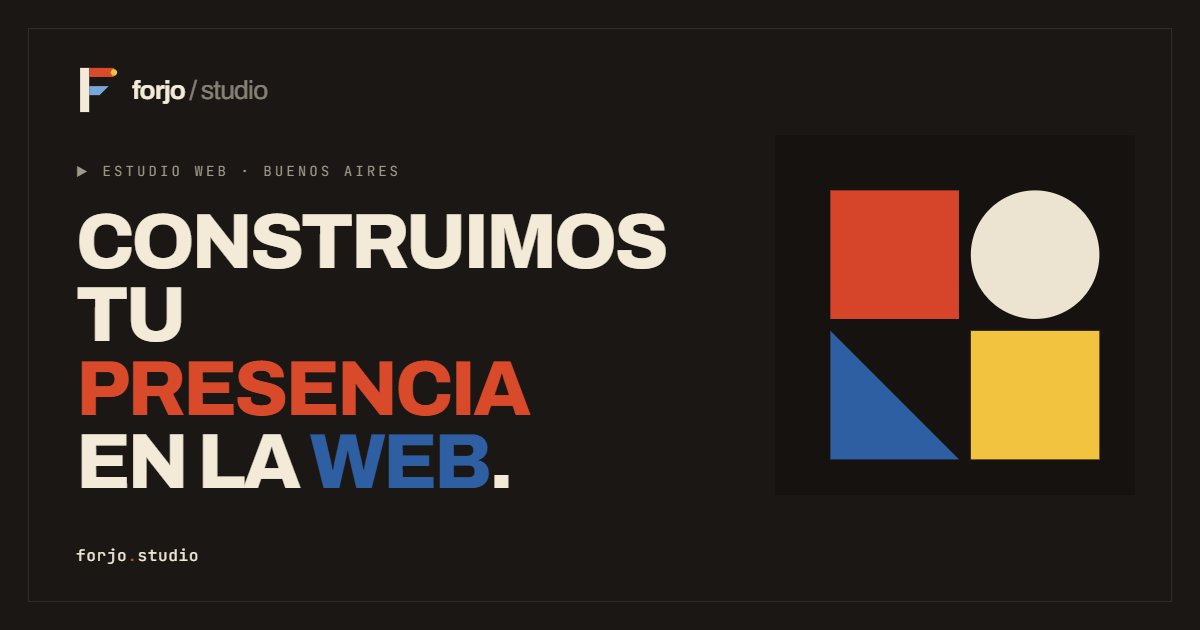
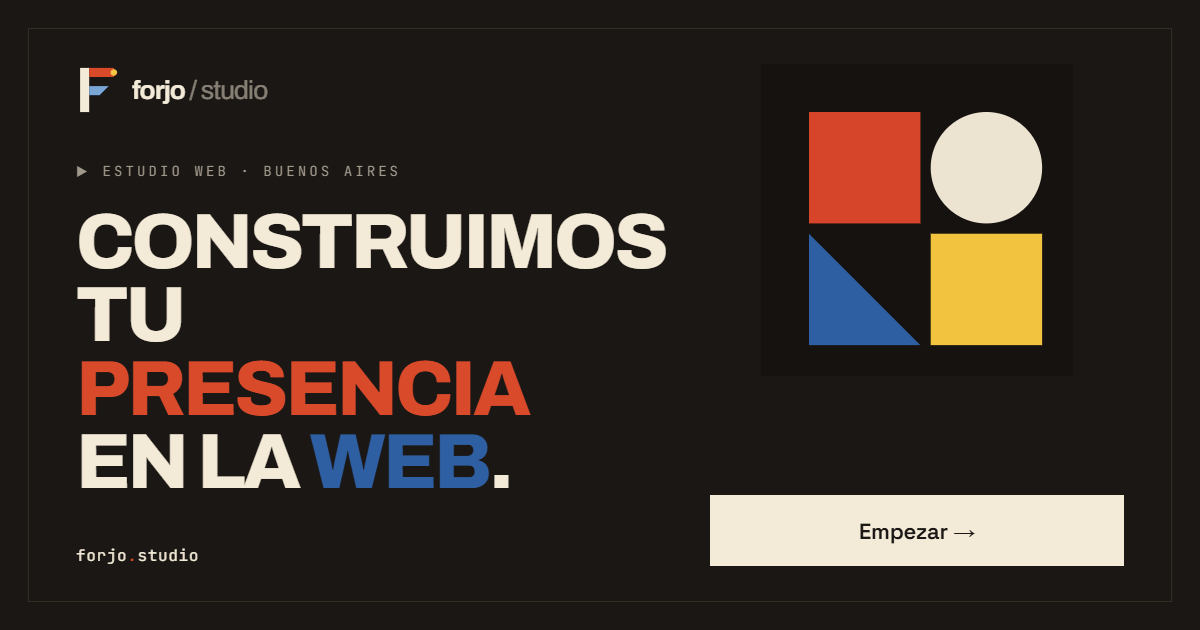
landing: OG imagen nueva + og/twitter title y description acortados

Changed region(s): [[0.6475, 0.1508, 0.925, 0.754], [0.5858, 0.7841, 0.9558, 0.9048]]

diff --git a/index.html b/index.html
@@ -11,8 +11,8 @@
 
 <!-- Open Graph -->
 <meta property="og:type" content="website">
-<meta property="og:title" content="Forjo Studio — Sitios web y sistemas de turnos a medida">
-<meta property="og:description" content="Estudio web independiente en Buenos Aires. Sistema de turnos, webs profesionales y software a medida para emprendedores, profesionales y marcas.">
+<meta property="og:title" content="Sitios web y sistemas a medida">
+<meta property="og:description" content="Estudio web independiente en Buenos Aires. Sistema de turnos, webs profesionales y software a medida.">
 <meta property="og:url" content="https://forjo.studio/">
 <meta property="og:image" content="https://forjo.studio/og-image.jpg">
 <meta property="og:image:width" content="1200">
@@ -23,7 +23,7 @@
 
 <!-- Twitter -->
 <meta name="twitter:card" content="summary_large_image">
-<meta name="twitter:title" content="Forjo Studio — Sitios web y sistemas de turnos a medida">
+<meta name="twitter:title" content="Sitios web y sistemas a medida">
 <meta name="twitter:description" content="Estudio web independiente en Buenos Aires. Sistema de turnos, webs profesionales y software a medida.">
 <meta name="twitter:image" content="https://forjo.studio/og-image.jpg">
 